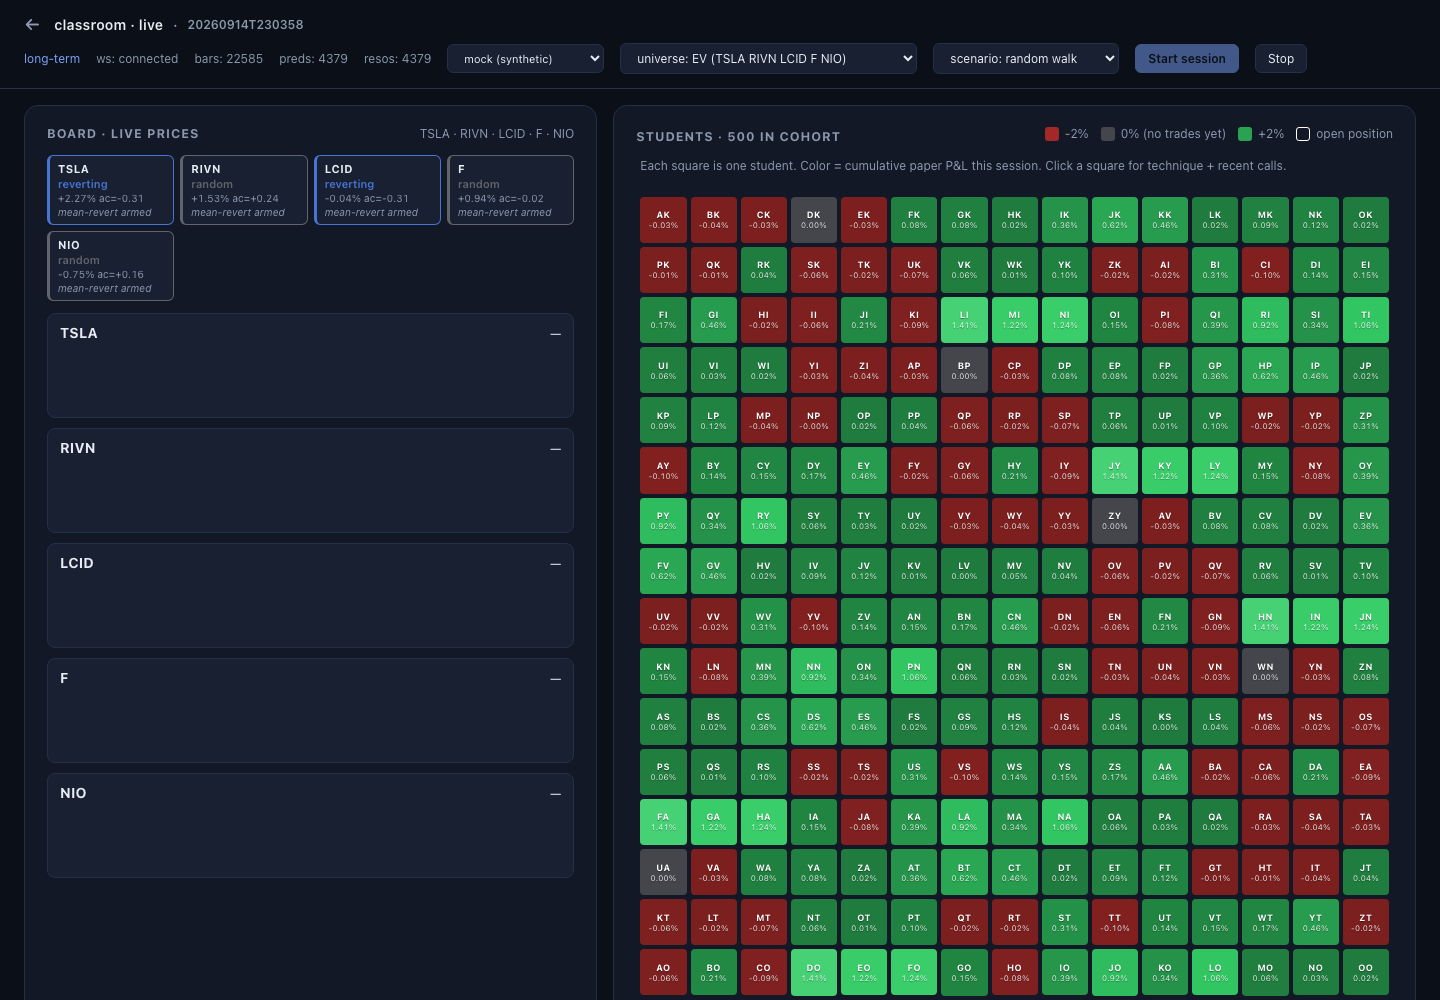
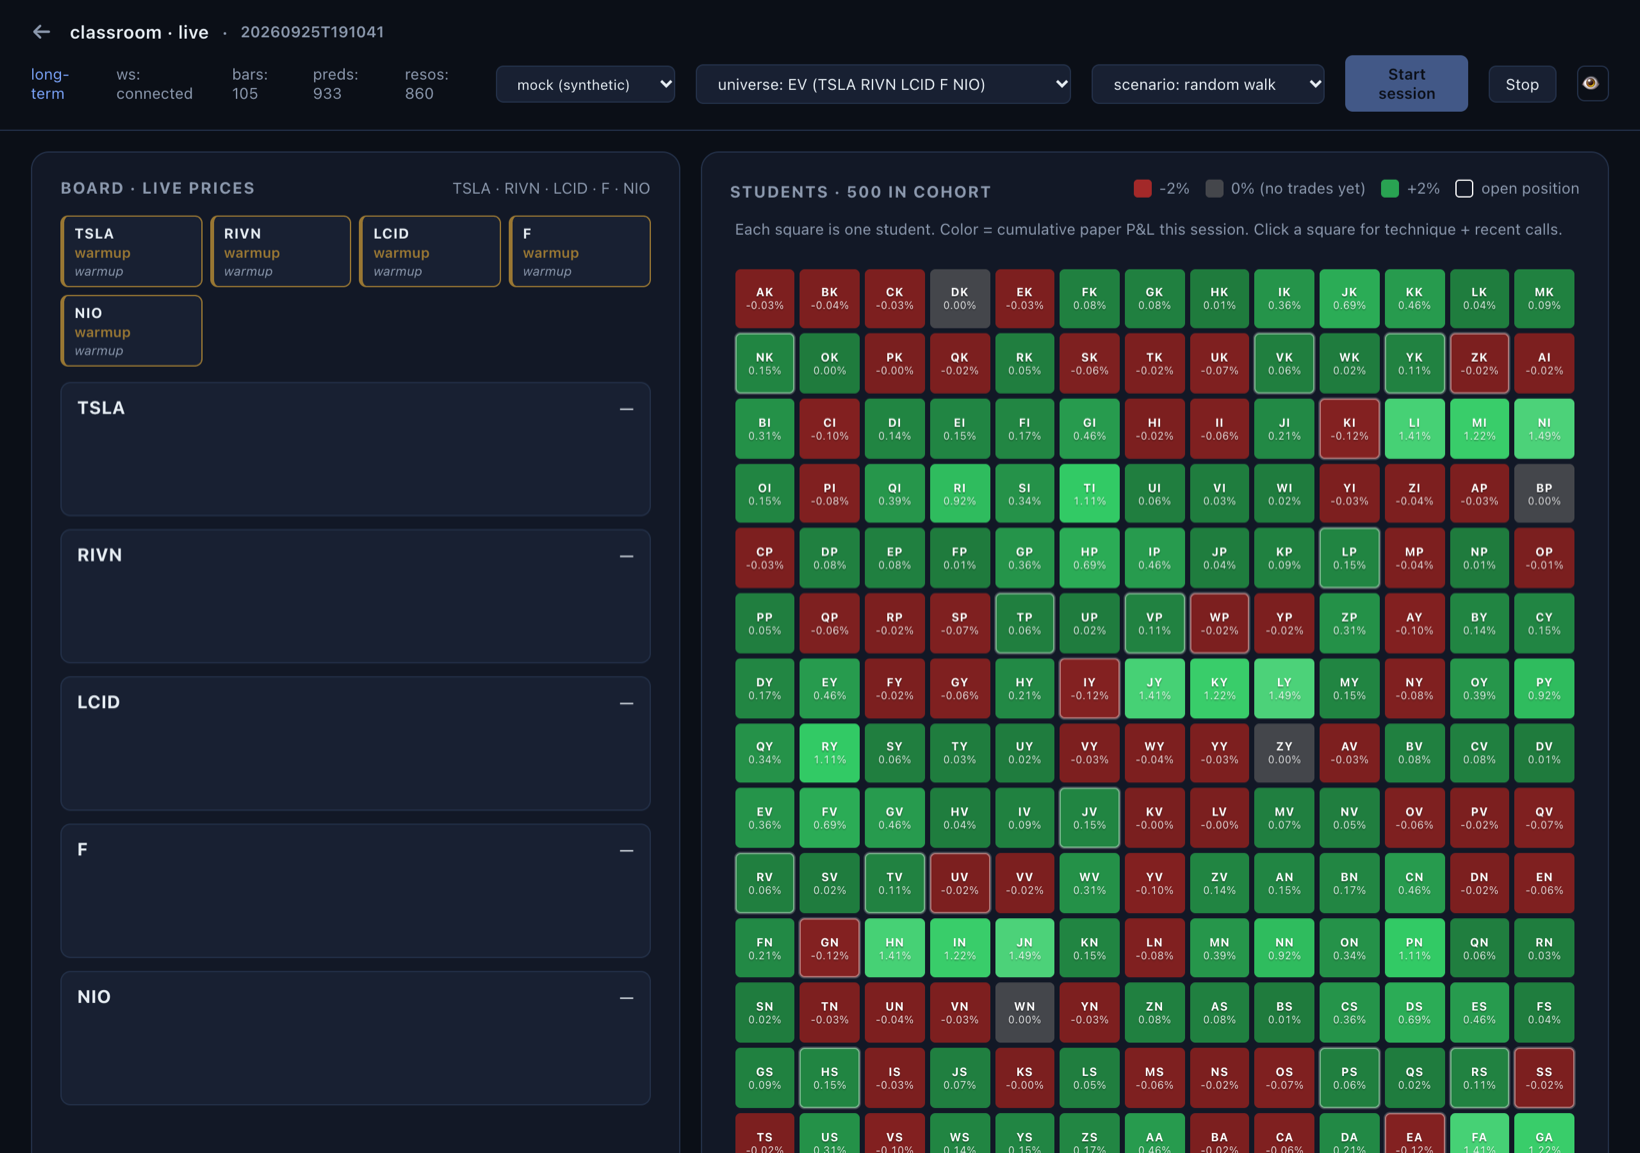
Profile: dashboard in private mode replaces the classroom board image; classroom live recaptured from a live session

diff --git a/README.md b/README.md
@@ -26,6 +26,11 @@ I like systems where software meets hardware: vehicles, motors, telemetry, simul
 | [dashboard](https://github.com/ChristianVerghis/dashboard) | The cockpit I run all of this from. Auto-discovers projects under one directory via a small `project.yml` manifest, shows commit activity, service health, goals and logs, and runs a nightly steward. FastAPI, no build step. |
 | [claude-statusline](https://github.com/ChristianVerghis/claude-statusline) | Three-line status line for Claude Code: context left, 5-hour and weekly quota bars, reset times, git branch. |
 
+<p align="center">
+  <img src="assets/dashboard-private.png" alt="dev dashboard in private mode: ask bar, attention strip, weekly stats, where-the-week-went bars, project tiles; personal project names blurred" width="820"><br>
+  <sub>dashboard, private mode on: ask it what is blocked, an attention strip of stale and unpushed work, the week in numbers, one tile per repo. Names blur, everything stays live.</sub>
+</p>
+
 ## Research and writing
 
 | Project | What it is |
@@ -35,15 +40,11 @@ I like systems where software meets hardware: vehicles, motors, telemetry, simul
 | classroom (private) | A synthetic research lab: 100 forecaster personas, each running a named technique, make daily calibrated predictions over an EV watchlist and get Brier-scored as they resolve. A second 500-student cohort paper-trades intraday in the browser. The point is to find which forecasting techniques stay well calibrated, not to trade. |
 
 <p align="center">
-  <img src="assets/classroom-board.png" alt="classroom board: 100 students, Brier scores, learning lab" width="820"><br>
-  <sub>classroom: the long-term cohort board. 100 students, 2,000+ resolved predictions, per-technique learning gain.</sub>
-</p>
-<p align="center">
-  <img src="assets/classroom-live.png" alt="classroom live cohort: 500 students paper-trading, coloured by session P&L" width="820"><br>
-  <sub>classroom live: 500 students paper-trading a synthetic EV universe, one square each, coloured by session P&amp;L.</sub>
+  <img src="assets/classroom-live.png" alt="classroom live session: five live price charts beside a grid of 500 student squares coloured by session P&L" width="820"><br>
+  <sub>classroom live, mid-session: live prices for the EV universe on the left, 500 students on the right, one square each, coloured by paper P&amp;L.</sub>
 </p>
 
 ## Elsewhere
 
-- Portfolio and gameplay reel: <!-- TODO: portfolio URL -->
+- Portfolio and gameplay reel: [christianverghis.vercel.app](https://christianverghis.vercel.app)
 - [caspian-sdk](https://github.com/ChristianVerghis/caspian-sdk): fork with a fix for skipping malformed channel events.
